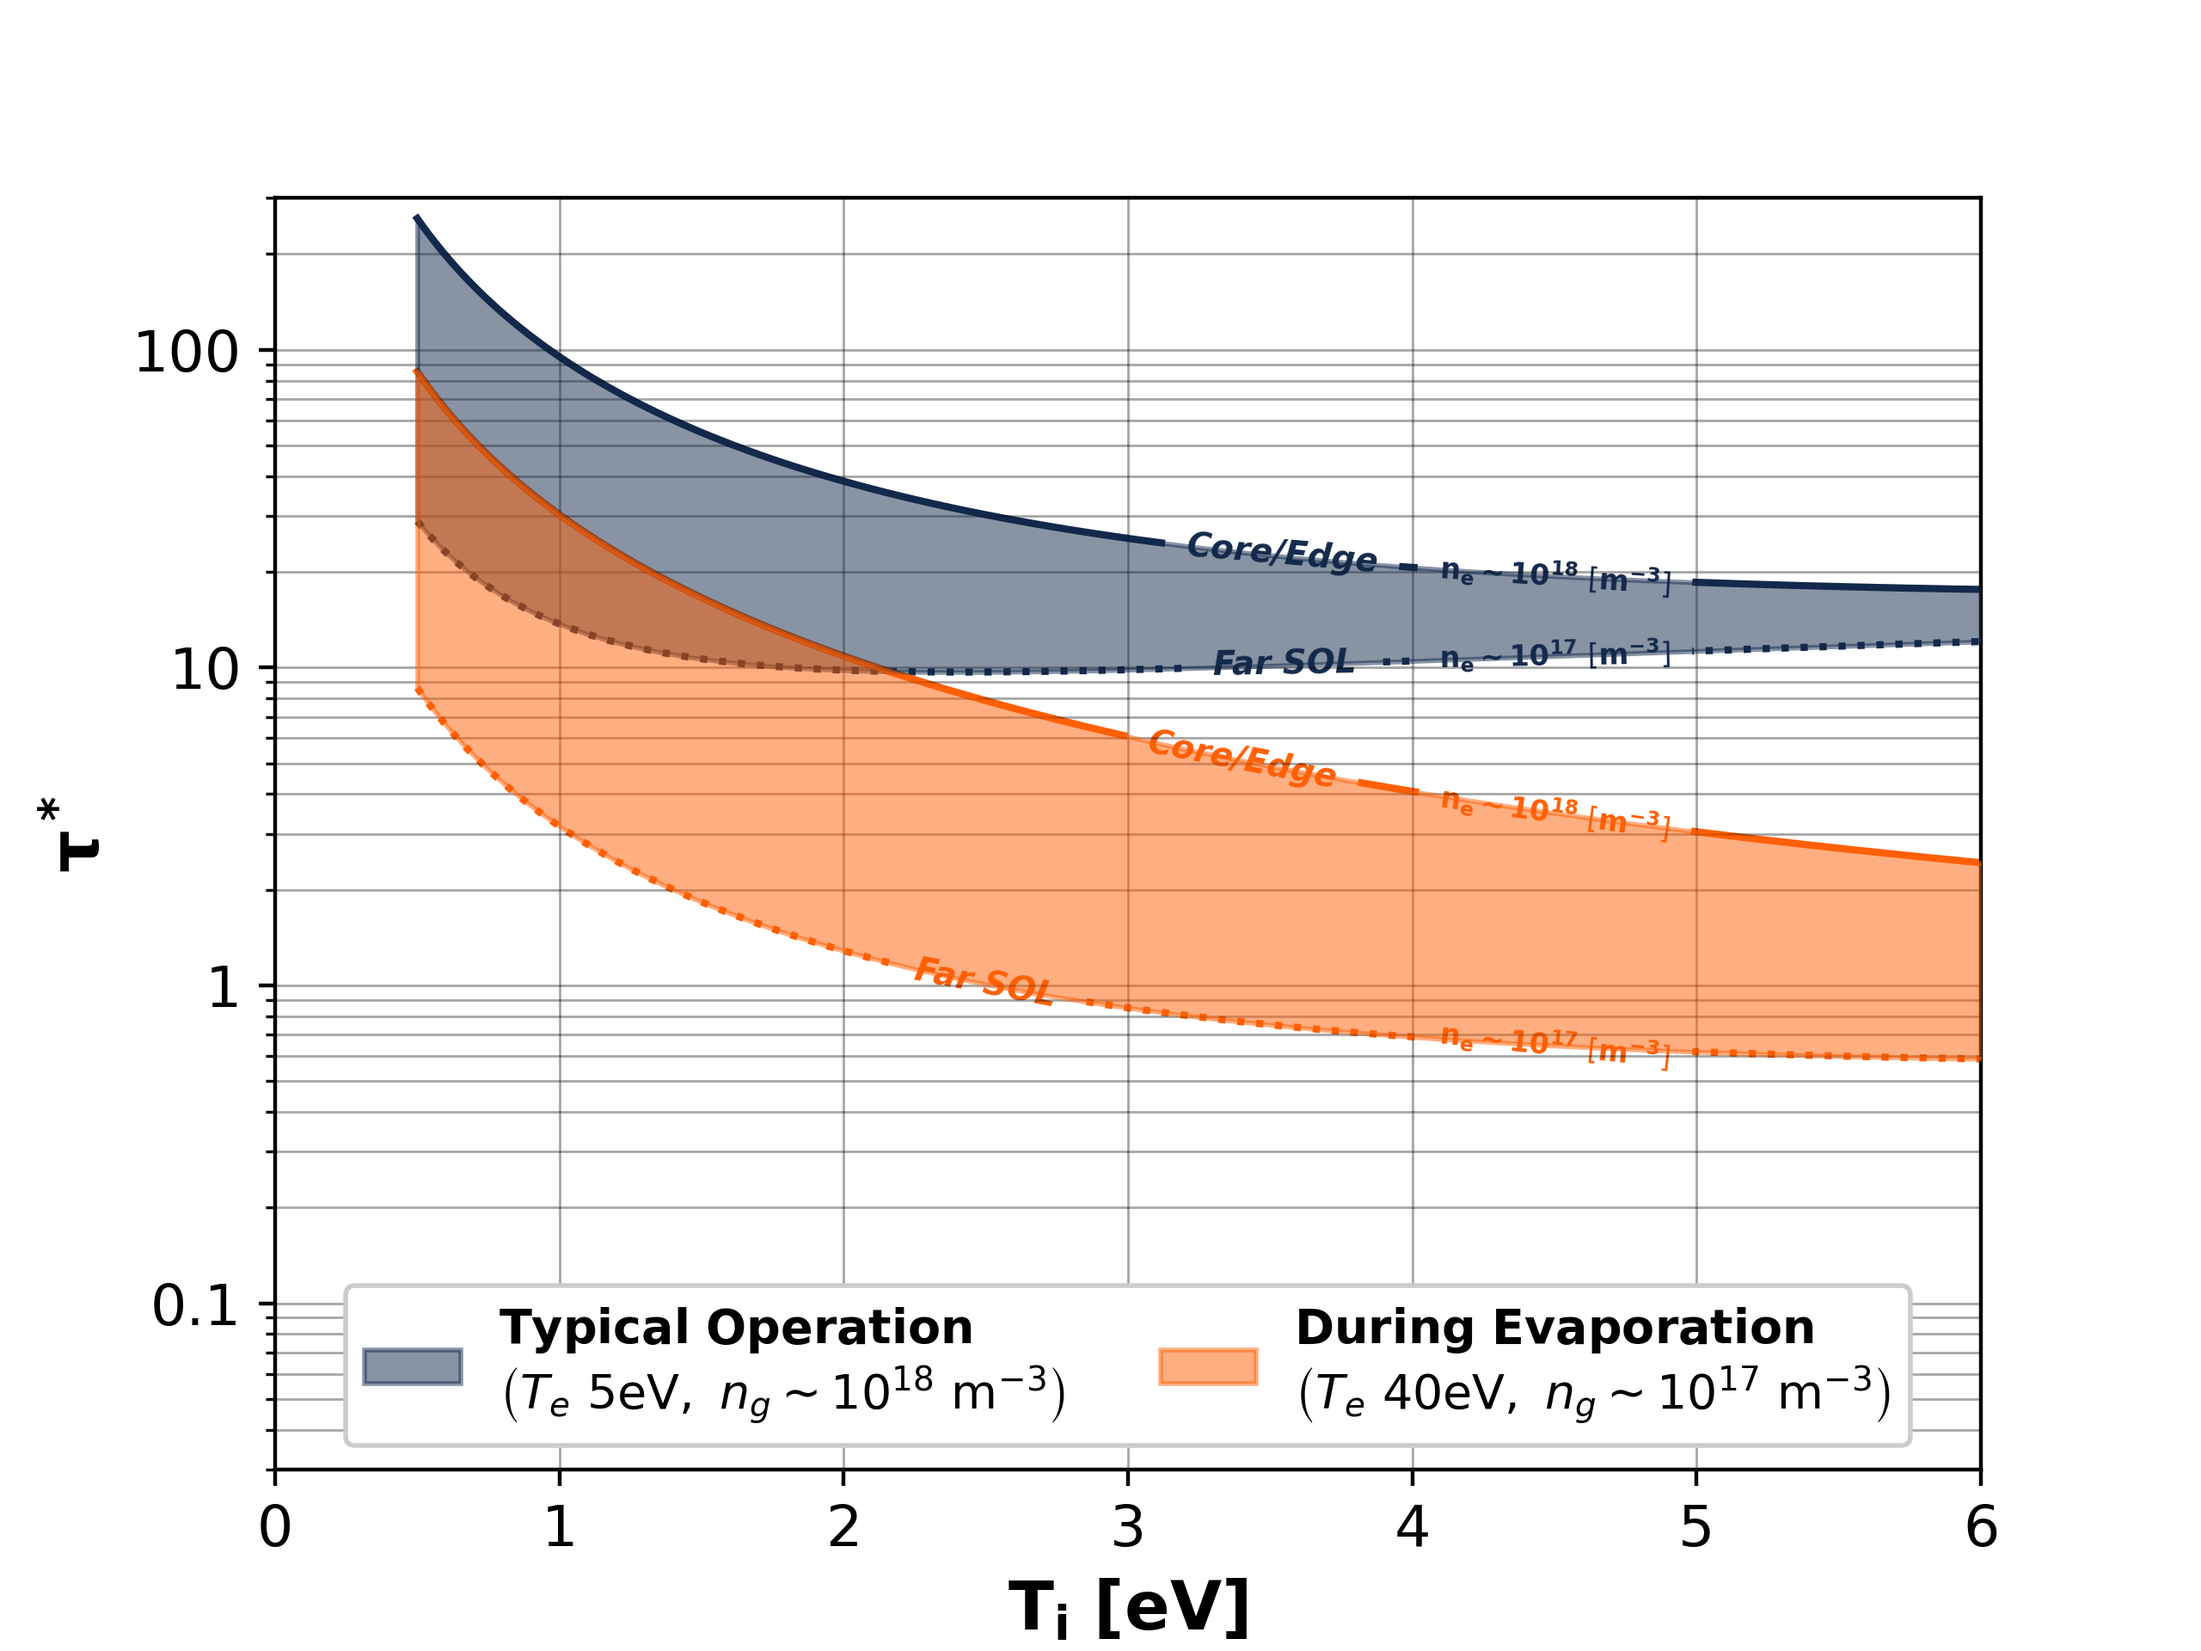
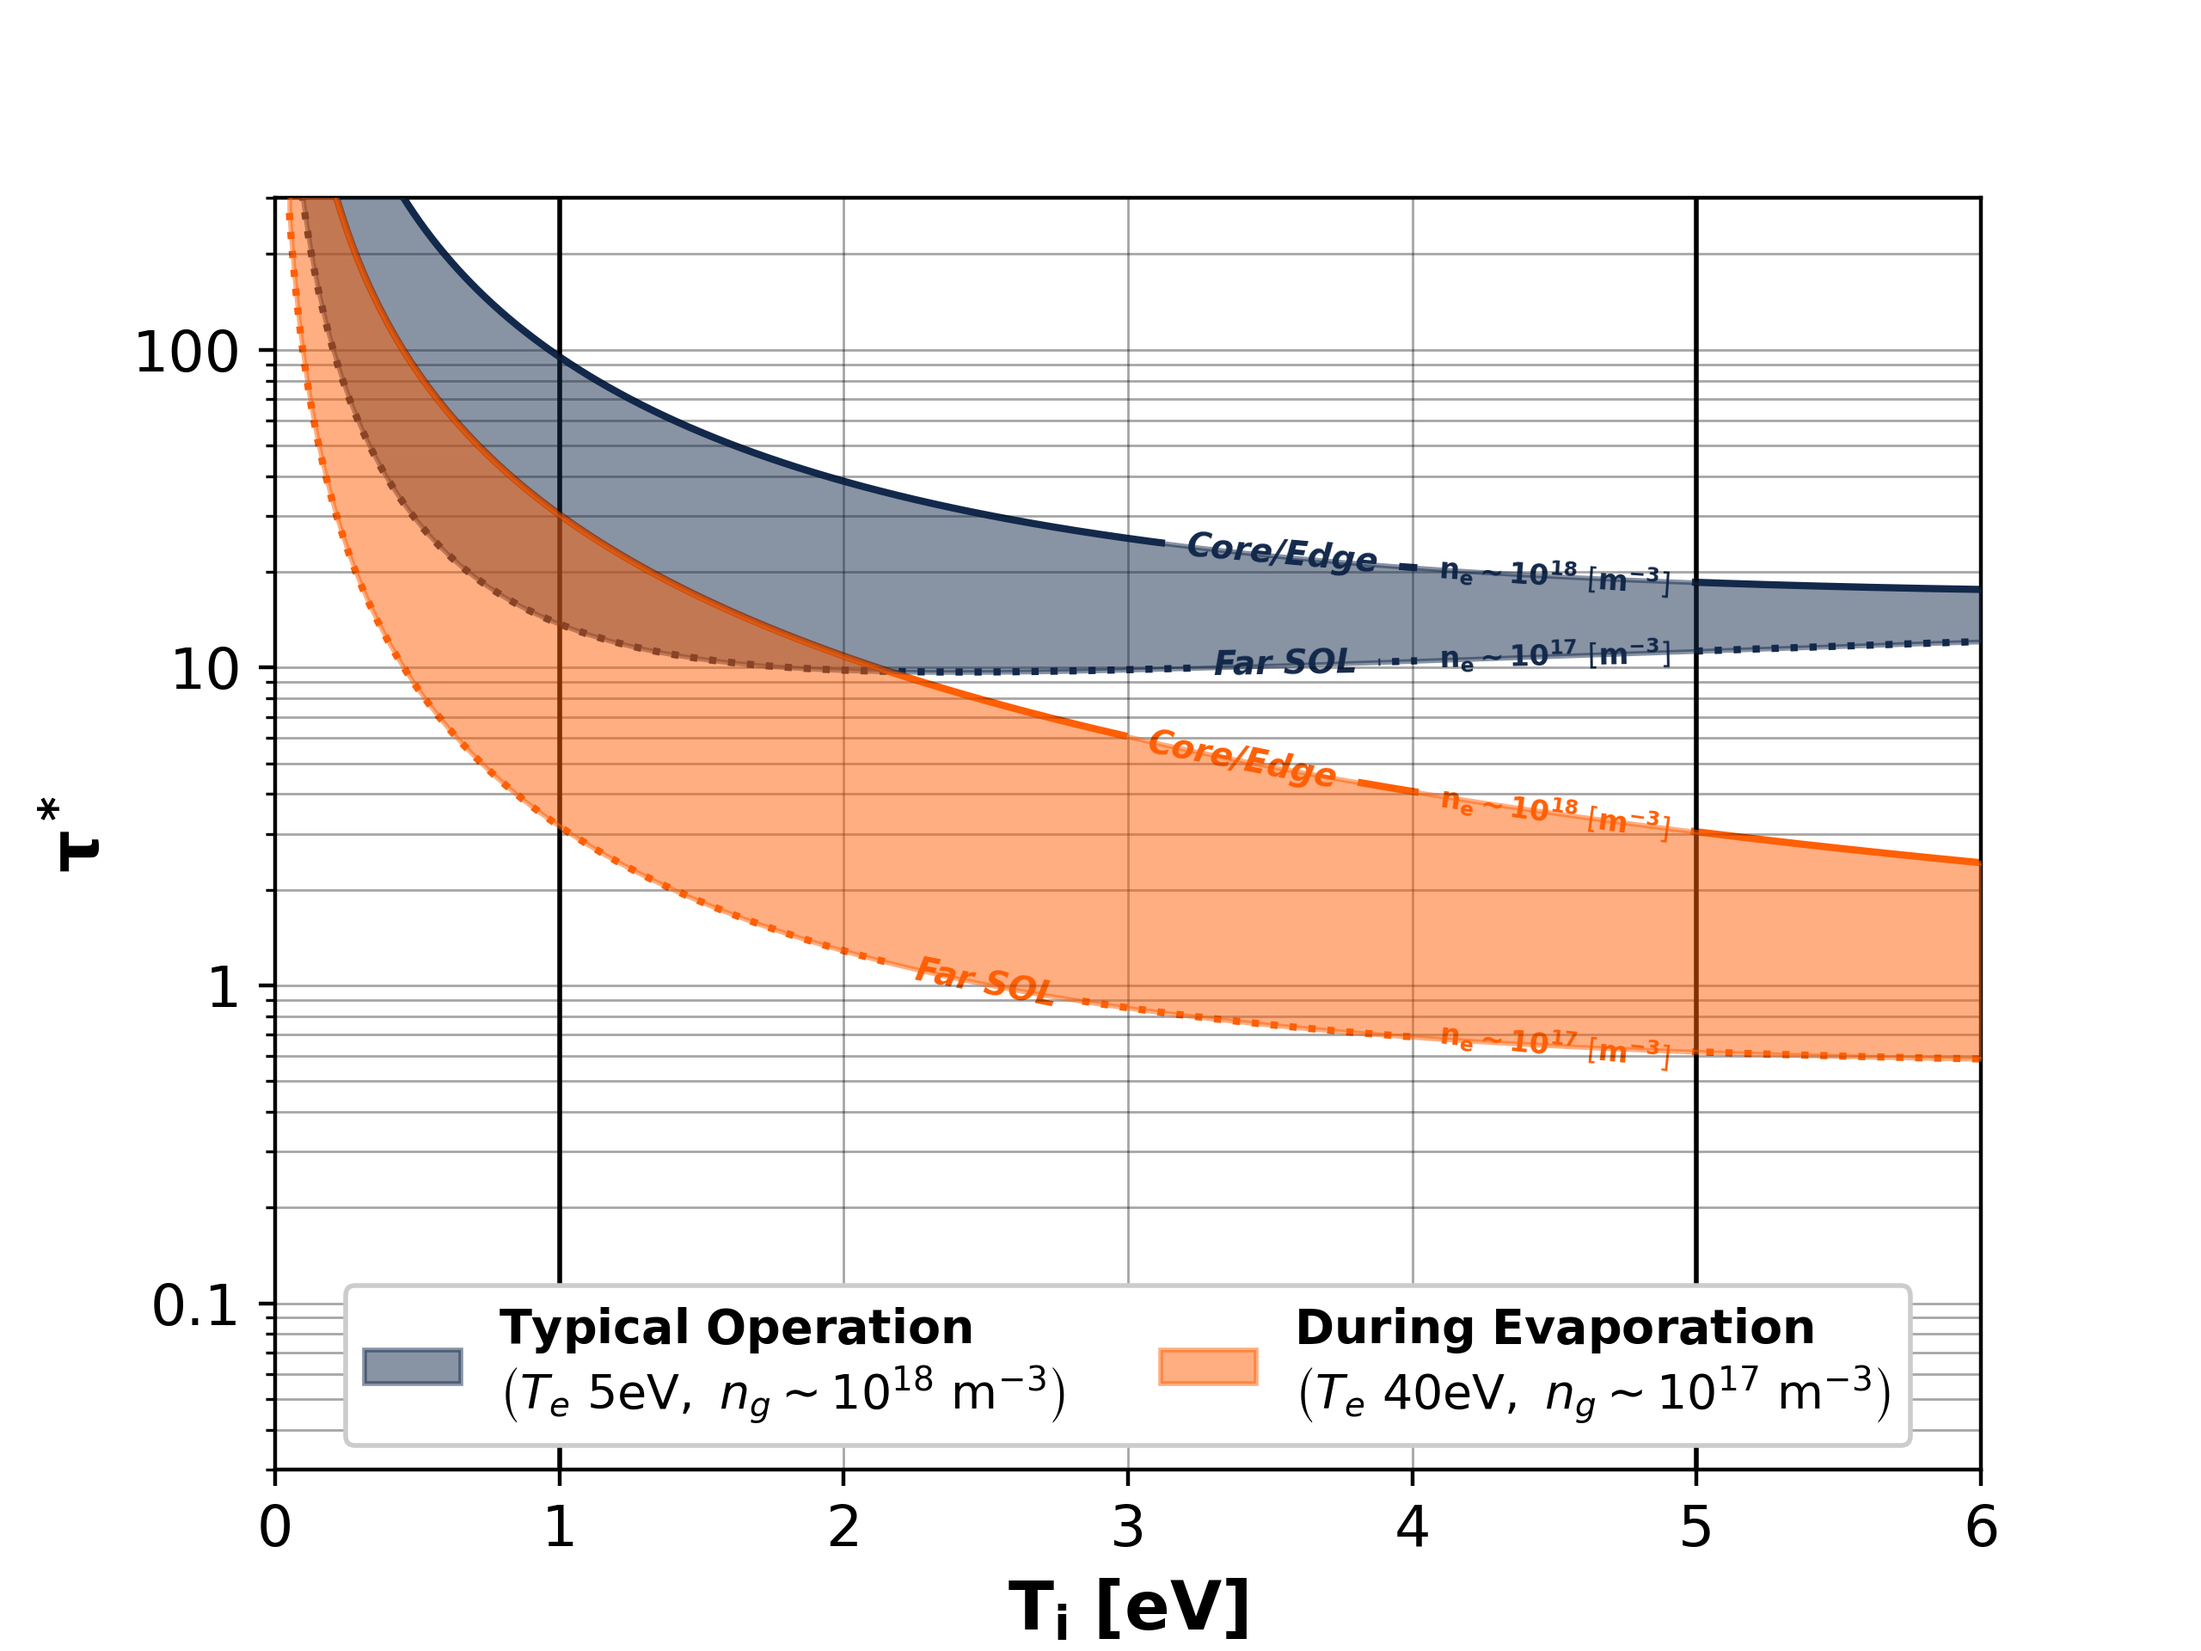
Update ion temperature range and resolution in collision frequency plots; modify vertical line plotting

diff --git a/coll_freq_calculator.py b/coll_freq_calculator.py
@@ -234,8 +234,8 @@ def plot_tau_starSOL(Ti_ev, f_typical_edge, f_typical_far, f_evap_edge, f_evap_f
     # plt.plot([], [], marker='none', linestyle=':', color='black', label='$\\it{Far~SOL~(n_e\\sim10^{17}~\\text{m}^{-3})}$')
 
     # vertical lines at x=1 and x=5
-    # plt.axvline(typical_ionTemp_lo, color='k', linestyle='-', zorder=2)#, label='Typical Operating Range')
-    # plt.axvline(typical_ionTemp_hi, color='k', linestyle='-', zorder=2)#, label='Typical Operating Range')
+    plt.axvline(typical_ionTemp_lo, color='k', linestyle='-', zorder=2)#, label='Typical Operating Range')
+    plt.axvline(typical_ionTemp_hi, color='k', linestyle='-', zorder=2)#, label='Typical Operating Range')
 
 
 
@@ -270,9 +270,9 @@ def main():
 
     #z_bg = 1.0        # Effective charge state of background species (Helium)
     #ne_m3 = 1e18  # Electron density in m^-3
-    ti_plot_low = 0.5   # Ion temperature in eV
+    ti_plot_low = 0.05   # Ion temperature in eV
     ti_plot_high = 7.0 # Ion temperature in eV
-    Ti_ev = np.linspace(ti_plot_low, ti_plot_high, 1000)   # Ion temperature in eV
+    Ti_ev = np.linspace(ti_plot_low, ti_plot_high, 2000)   # Ion temperature in eV
 
     f_coll_ne18 = ion_ion_collision_freq(1e18, Ti_ev, m_bg_amu, 1.0, m_imp_amu, z_imp, ln_lambda)
     f_coll_ne17 = ion_ion_collision_freq(1e17, Ti_ev, m_bg_amu, 1.0, m_imp_amu, z_imp, ln_lambda)
